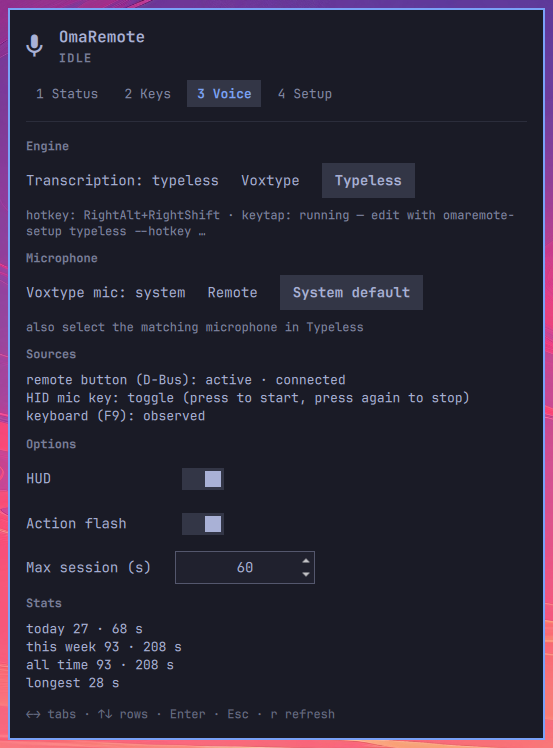
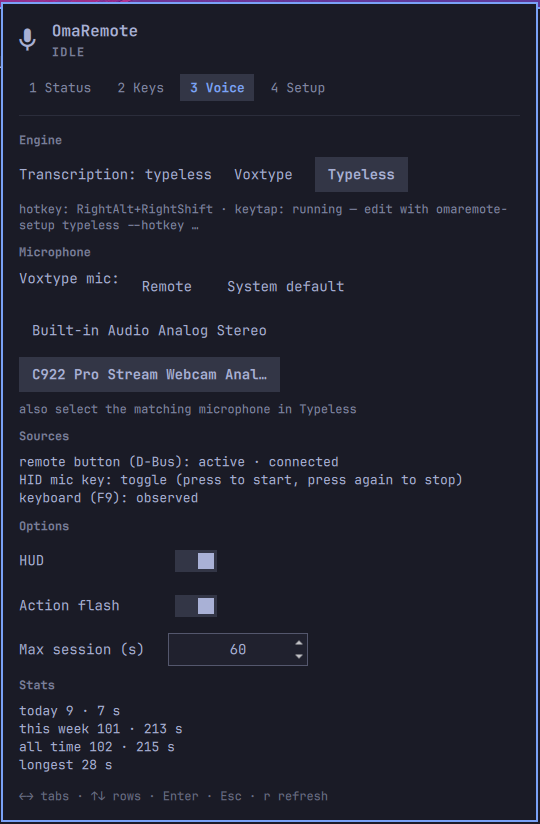
docs: install with omarchy plugin add, document uninstall, add preview.png
The Voice tab screenshot now shows the microphone picker.

Claude-Session: https://claude.ai/code/session_014vQpzXWTp1gDwYSU3hmyiL

diff --git a/README.md b/README.md
@@ -59,11 +59,13 @@ The design targets the wider ATVV family (e.g. G20S Pro).
 ## Install
 
 ```bash
-git clone https://github.com/kehao-playground/omaremote.git
-cd omaremote
-make dev-install                 # copy the plugin into ~/.config/omarchy/plugins and rescan
-bash host/omaremote-setup        # every host step in order (interactive; keyd and verify use sudo)
+omarchy plugin add https://github.com/kehao-playground/omaremote.git --enable
+bash ~/.config/omarchy/plugins/io.github.kehao-chen.omaremote/host/omaremote-setup   # every host step in order
 ```
+
+The setup script is interactive: the `keyd` and `verify` steps use `sudo`, and the `atvvoice` step builds ATVVoice
+from source with `cargo`, at a pinned commit. To work on the plugin from a checkout instead, see
+[Development](#development).
 
 Then add **OmaRemote** to the bar, and open the panel's **Setup** tab: every row should show ✓.
 
@@ -80,6 +82,9 @@ Then add **OmaRemote** to the bar, and open the panel's **Setup** tab: every row
 | `verify` | verifies the loaded binds and sweeps every button through the transport |
 
 Use `--mic system` to skip ATVVoice and dictate from your desktop microphone.
+
+Update with `omarchy plugin update io.github.kehao-chen.omaremote`. After an update, re-run `omaremote-setup keyd` and
+`omaremote-setup binds` if the changelog says the generated files changed.
 
 ## Usage
 
@@ -141,7 +146,39 @@ Notes:
   `systemctl --user restart atvvoice`. This was seen once, and its cause is still unknown.
 - **Stuck state:** hold the panic key (Menu) for 1.5 s, or run `omarchy-shell omaremote reset`.
 
+## Uninstall
+
+Undo the host setup first, because removing the plugin also deletes the setup script:
+
+```bash
+bash ~/.config/omarchy/plugins/io.github.kehao-chen.omaremote/host/omaremote-setup uninstall
+omarchy plugin remove io.github.kehao-chen.omaremote
+```
+
+`uninstall` asks before each item, and only removes what setup itself wrote:
+
+- Voxtype's `audio.device`, when it is one of the two values OmaRemote sets;
+- the two OmaRemote blocks in `~/.config/alsa/asoundrc` (everything else in the file is kept);
+- the `atvvoice` and `omaremote-keytap` user services, and the ATVVoice binary;
+- `~/.config/hypr/omaremote.lua`, its `require` line in `hyprland.lua`, and the `kb_options` block in `input.lua`;
+- `/etc/keyd/omaremote.conf` (this step uses `sudo`).
+
+Options: `--dry-run` lists what it would remove and changes nothing. `--purge` also deletes your settings in
+`~/.config/omaremote`, which are kept by default. `--yes` skips the questions. Every edited file keeps a copy of its
+previous version as `<file>.omaremote.bak`. Packages you installed (`keyd`, `rustup`, `pipewire-alsa`) and the
+`input` group membership are left as they are.
+
 ## Development
+
+From a checkout:
+
+```bash
+git clone https://github.com/kehao-playground/omaremote.git
+cd omaremote
+make dev-install                 # copy the plugin into ~/.config/omarchy/plugins and rescan
+bash host/omaremote-setup        # every host step in order
+```
+
 
 ```bash
 make test          # node --test (pure lib)
